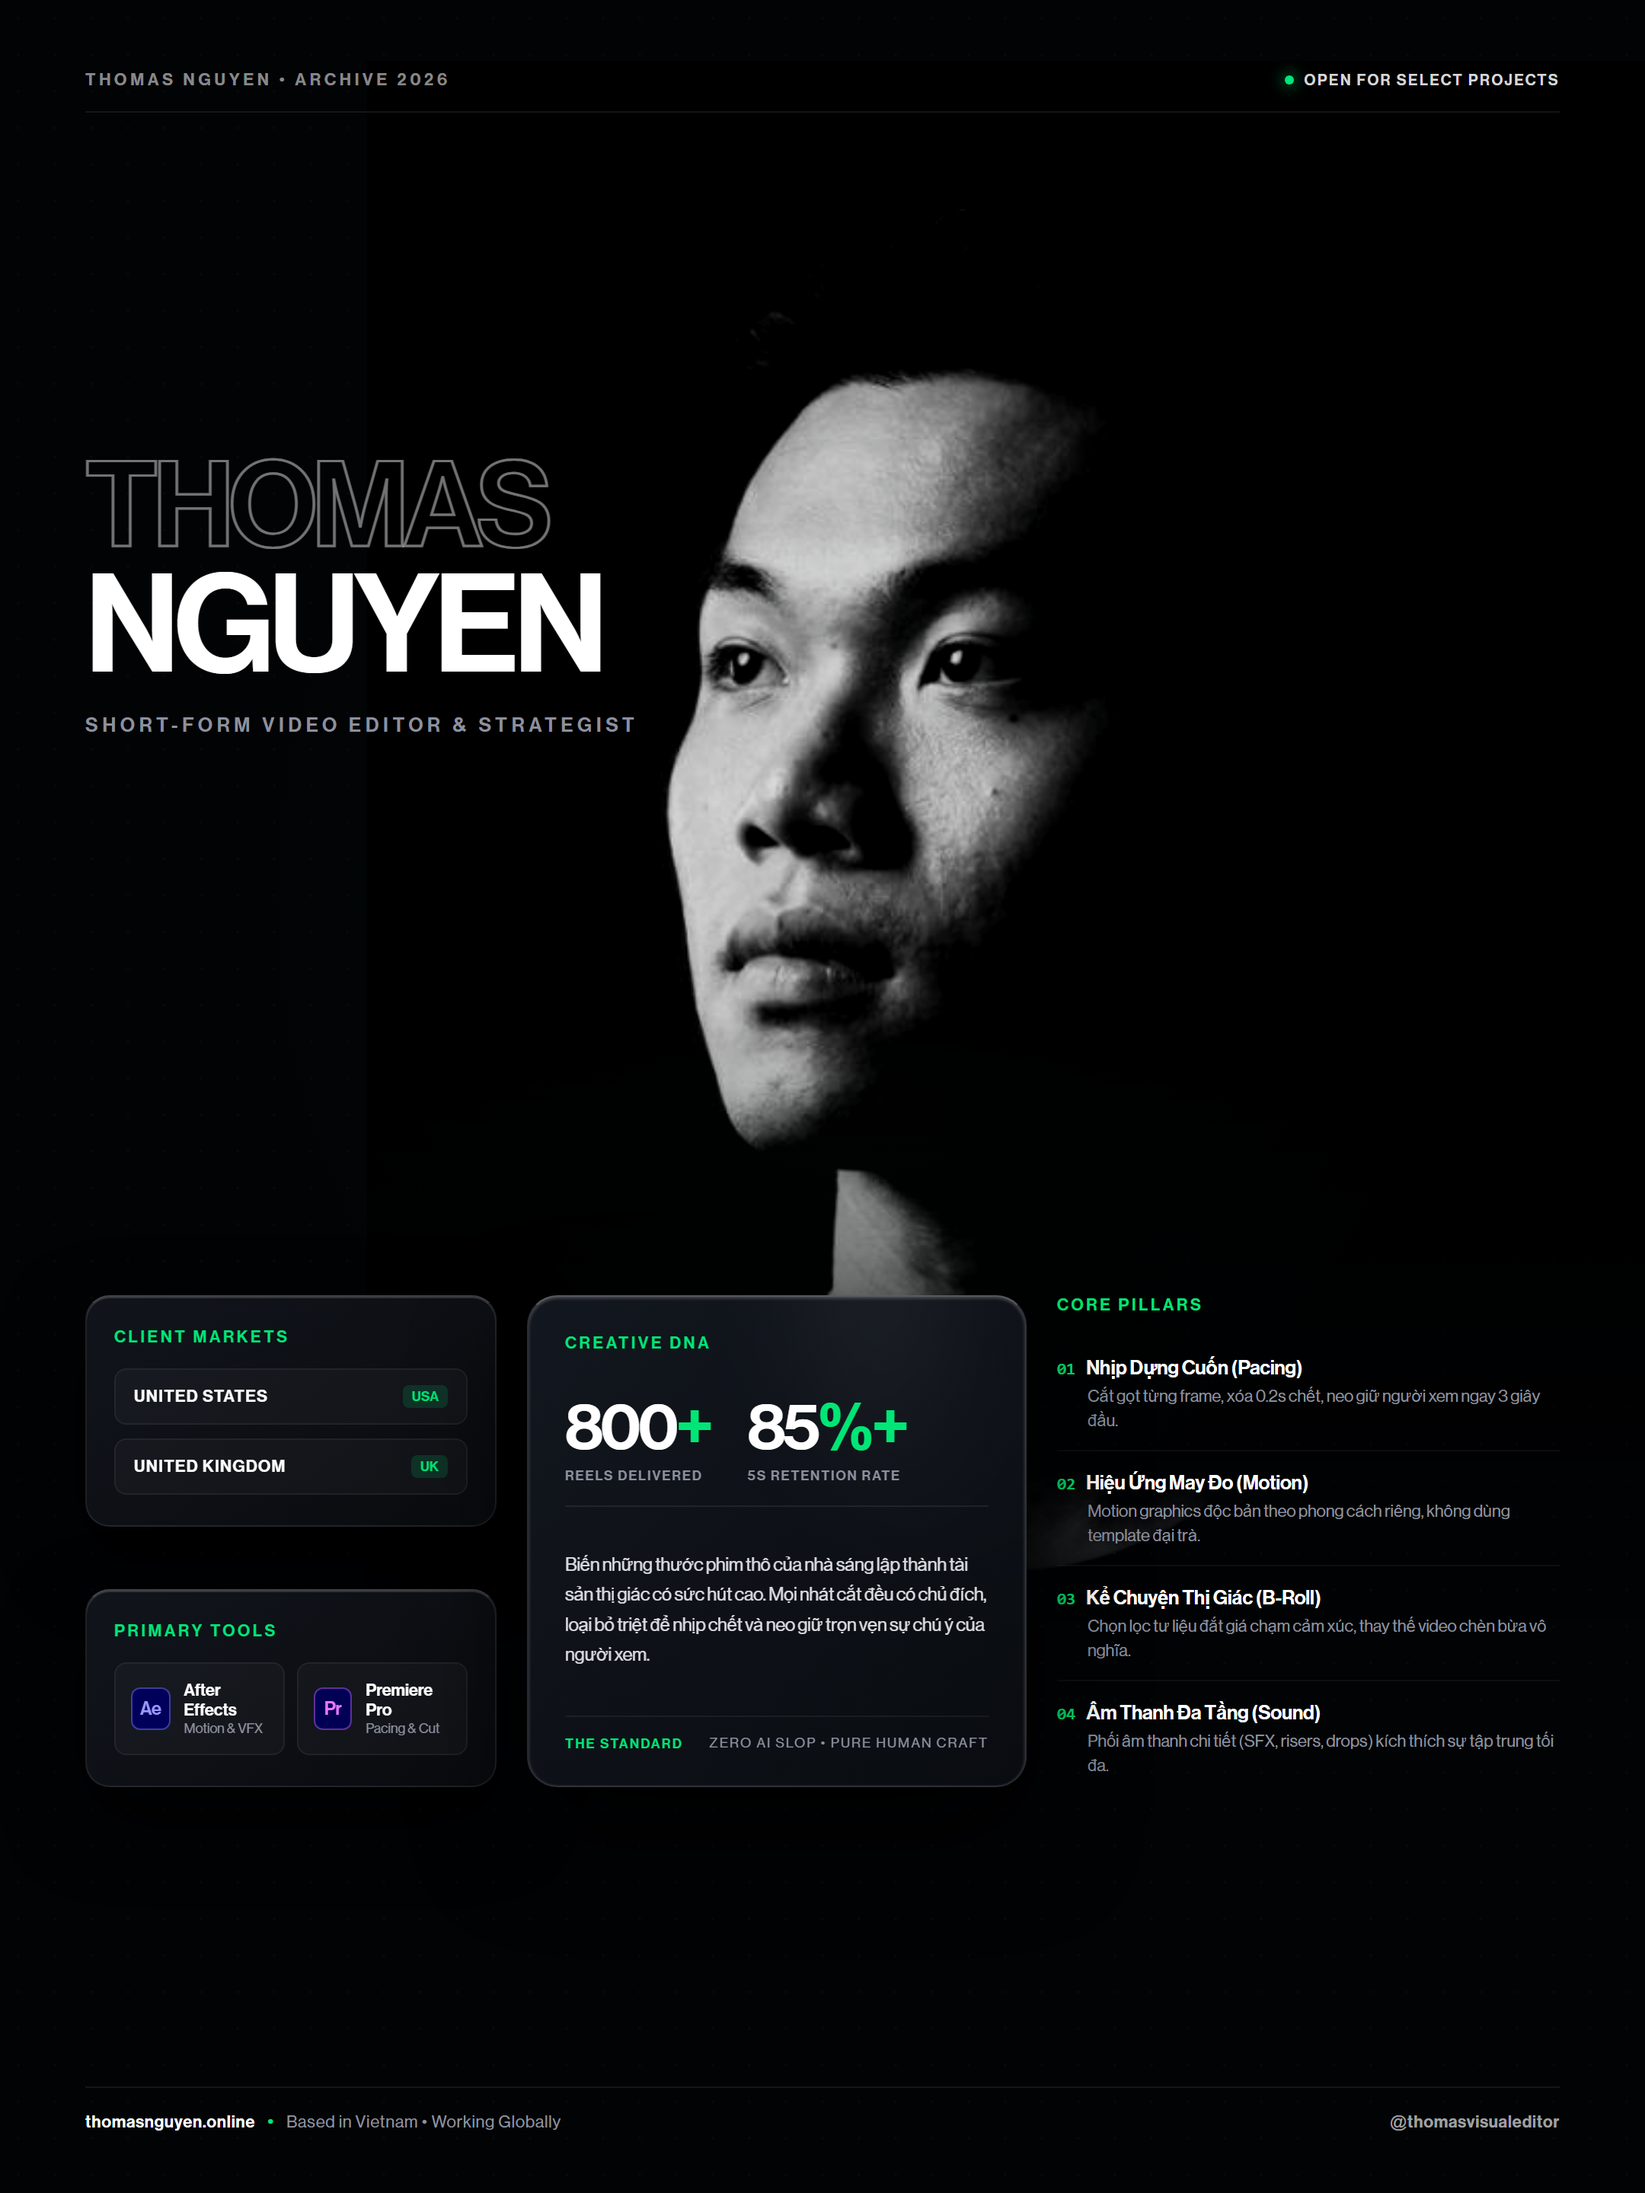
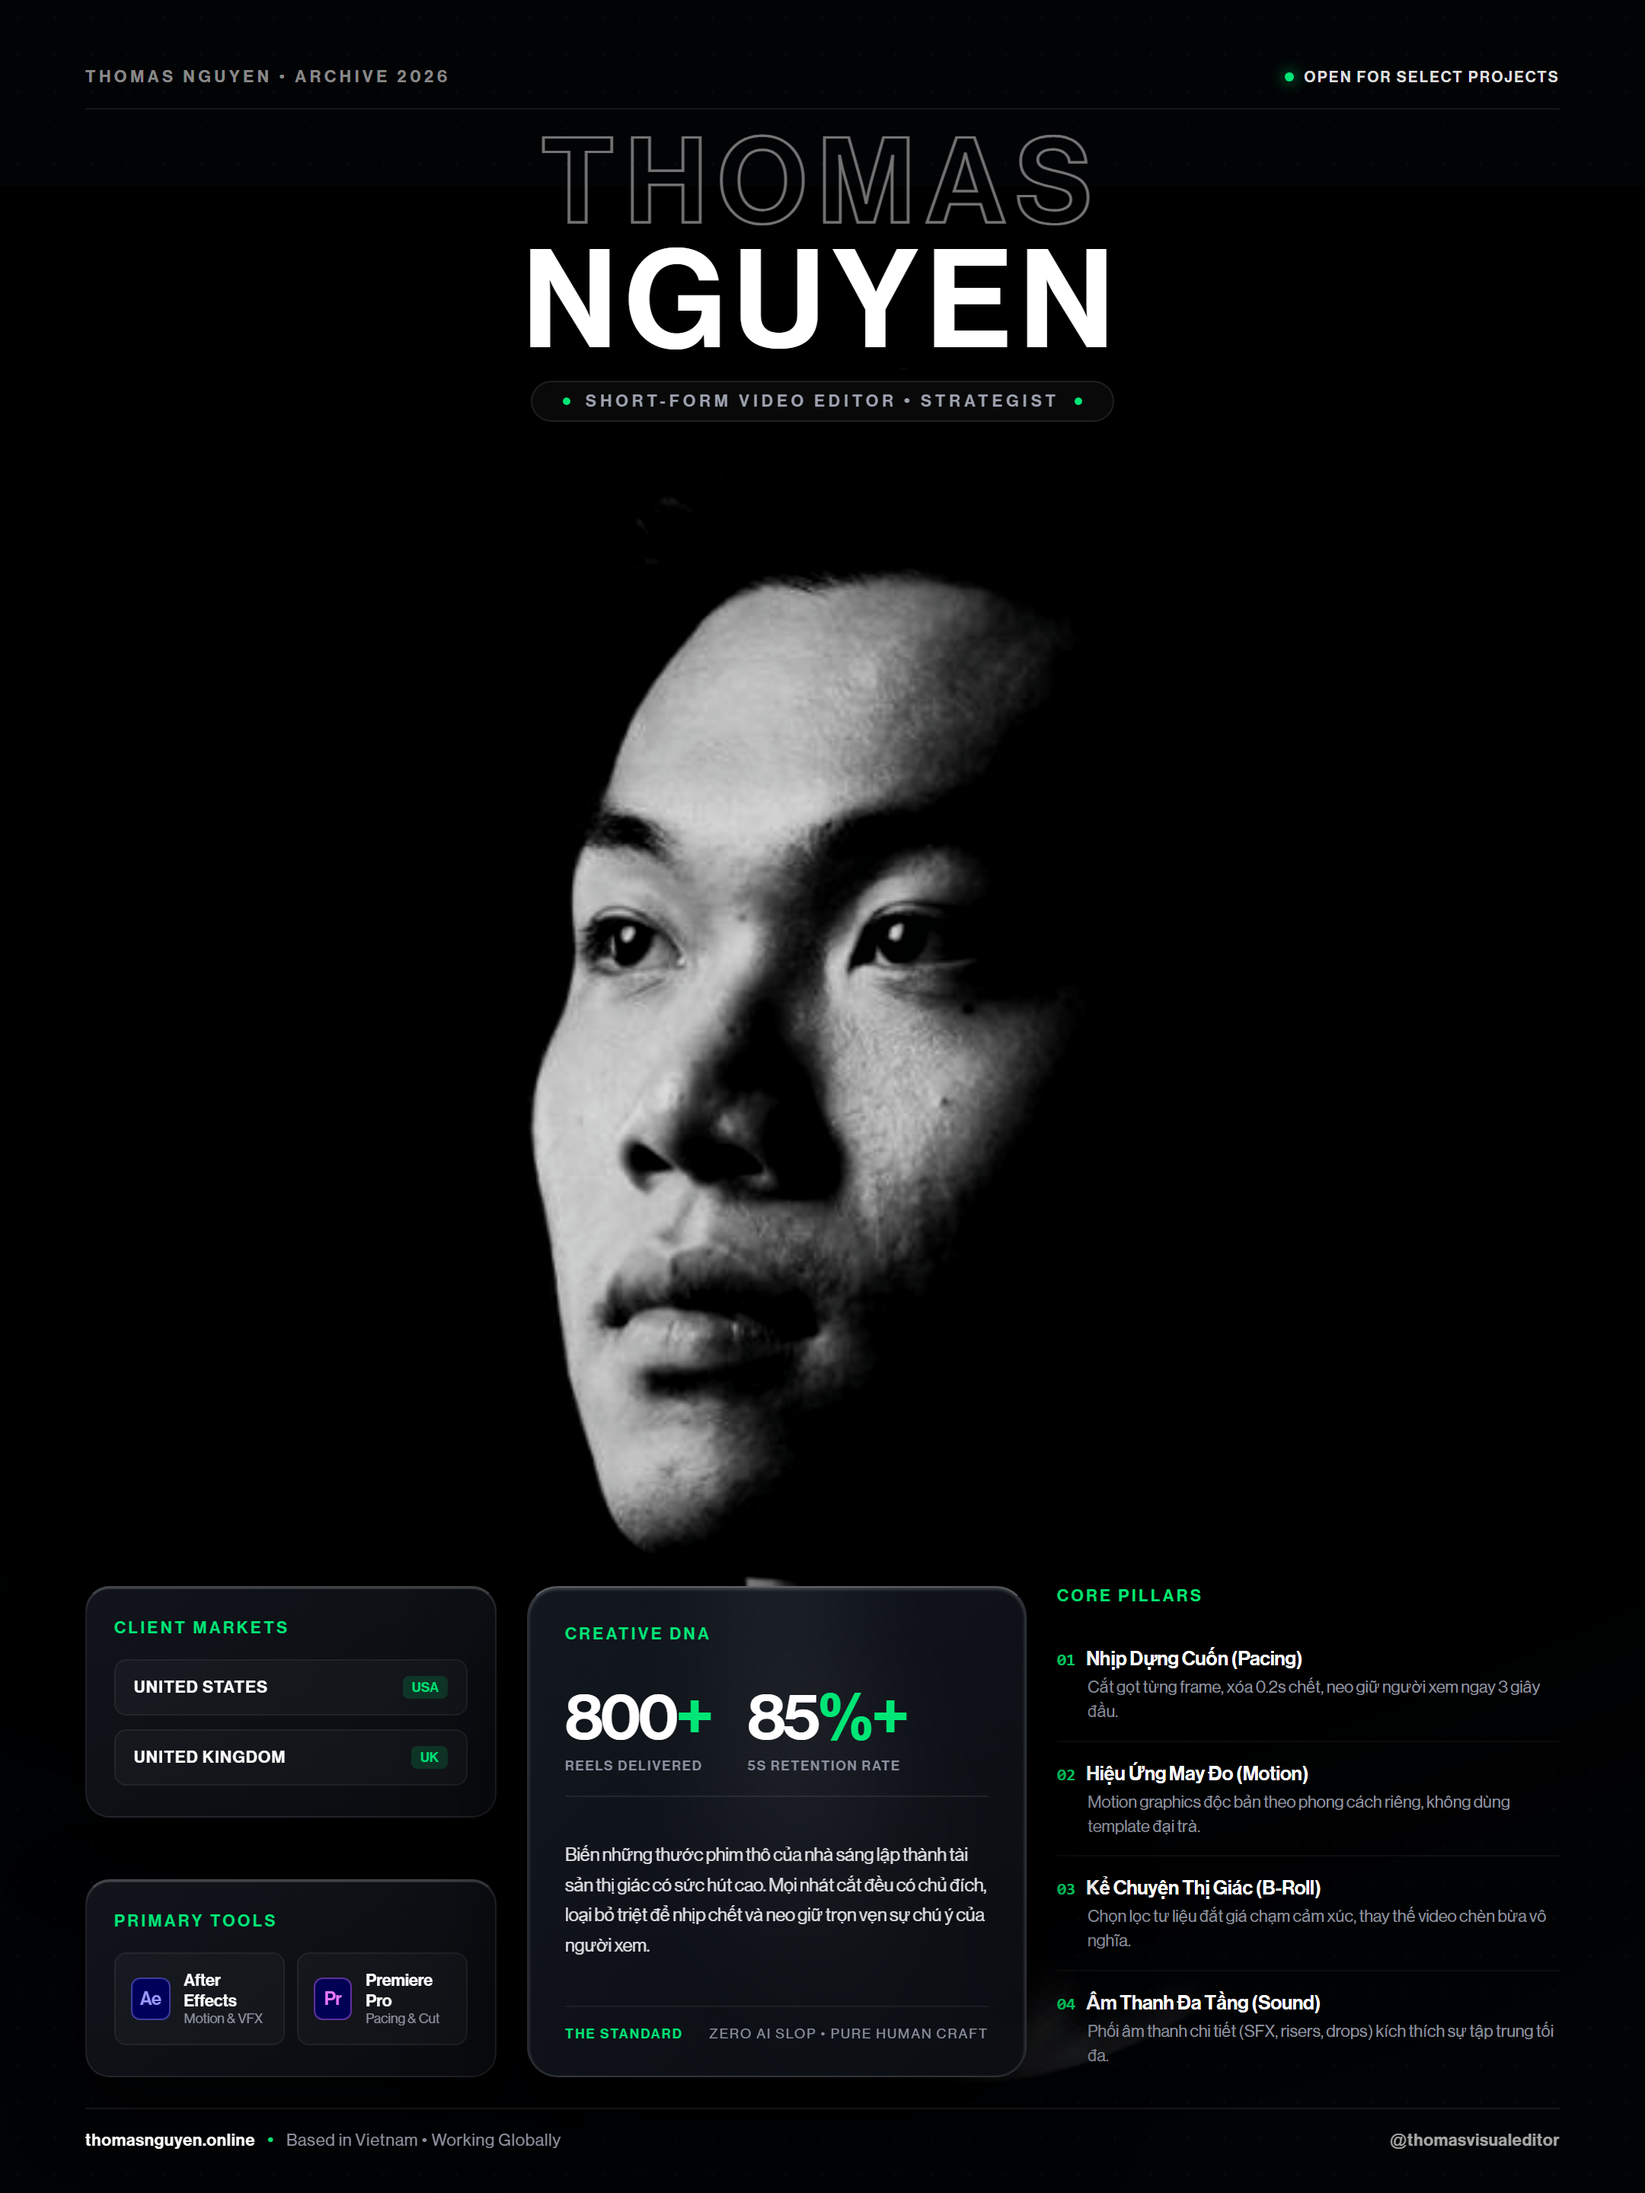
feat: polish centered poster layout with commanding face scale and cinematic framing

diff --git a/public/thomas_cv_poster.html b/public/thomas_cv_poster.html
@@ -1,4 +1,4 @@
-<!DOCTYPE html>
+<!DOCTYPE html>
 <html lang="en">
 <head>
   <meta charset="UTF-8">
@@ -63,49 +63,49 @@
       overflow: hidden;
       display: flex;
       flex-direction: column;
-      justify-content: space-between;
-      padding: 46px 56px 40px 56px;
+      justify-content: flex-start;
+      padding: 44px 56px 36px 56px;
       color: #ededf3;
     }
 
-    /* Accent color: Electric Mint / Neon Emerald like Muhammad Abbas */
+    /* Accent color: Electric Mint / Neon Emerald */
     :root {
       --accent: #00e676;
-      --accent-glow: rgba(0, 230, 118, 0.15);
+      --accent-glow: rgba(0, 230, 118, 0.16);
     }
 
     /* Subtle Film Grain Noise */
     .noise-layer {
       position: absolute;
       inset: 0;
-      background-image: radial-gradient(rgba(255, 255, 255, 0.03) 1px, transparent 0);
+      background-image: radial-gradient(rgba(255, 255, 255, 0.035) 1px, transparent 0);
       background-size: 24px 24px;
       pointer-events-none;
       z-index: 1;
-      opacity: 0.6;
+      opacity: 0.65;
     }
 
-    /* Soft Studio Spotlight Behind Subject */
+    /* Atmospheric Studio Spotlight Behind Subject */
     .studio-spotlight {
       position: absolute;
-      top: 140px;
-      left: 52%;
+      top: 210px;
+      left: 50%;
       transform: translateX(-50%);
-      width: 800px;
-      height: 900px;
-      background: radial-gradient(ellipse at center, rgba(255, 255, 255, 0.06) 0%, rgba(0, 230, 118, 0.025) 35%, transparent 70%);
+      width: 960px;
+      height: 960px;
+      background: radial-gradient(circle at 53% 42%, rgba(255, 255, 255, 0.1) 0%, rgba(0, 230, 118, 0.04) 38%, transparent 72%);
       pointer-events-none;
       z-index: 2;
     }
 
-    /* HERO PORTRAIT: Shifted slightly right to give title 100% clean negative space */
+    /* HERO PORTRAIT: Centered & Large Movie-Poster Composition */
     .hero-portrait-container {
       position: absolute;
-      top: 40px;
+      top: 190px;
       left: 50%;
-      transform: translateX(-34%);
-      width: 880px;
-      height: 1080px;
+      transform: translateX(-50%);
+      width: 1080px;
+      height: 1040px;
       z-index: 3;
       pointer-events-none;
     }
@@ -114,11 +114,14 @@
       width: 100%;
       height: 100%;
       object-fit: cover;
-      object-position: center 18%;
-      filter: grayscale(100%) contrast(135%) brightness(96%);
-      mask-image: linear-gradient(to bottom, black 0%, black 58%, rgba(0,0,0,0.6) 78%, transparent 95%),
-                  radial-gradient(ellipse at 50% 40%, black 45%, rgba(0,0,0,0.7) 70%, transparent 85%);
-      -webkit-mask-image: linear-gradient(to bottom, black 0%, black 58%, rgba(0,0,0,0.6) 78%, transparent 95%);
+      object-position: 46% 8%;
+      transform: translateX(115px) scale(1.26);
+      transform-origin: 50% 25%;
+      filter: grayscale(100%) contrast(138%) brightness(96%);
+      mask-image: radial-gradient(ellipse 70% 64% at 43% 38%, black 42%, rgba(0,0,0,0.85) 60%, transparent 95%),
+                  linear-gradient(to bottom, black 0%, black 50%, rgba(0,0,0,0.5) 68%, transparent 84%);
+      -webkit-mask-image: radial-gradient(ellipse 70% 64% at 43% 38%, black 42%, rgba(0,0,0,0.85) 60%, transparent 95%),
+                          linear-gradient(to bottom, black 0%, black 50%, rgba(0,0,0,0.5) 68%, transparent 84%);
       opacity: 0.96;
     }
 
@@ -149,7 +152,7 @@
       font-weight: 600;
       letter-spacing: 0.12em;
       text-transform: uppercase;
-      color: rgba(255, 255, 255, 0.85);
+      color: rgba(255, 255, 255, 0.88);
     }
 
     .status-dot {
@@ -160,18 +163,18 @@
       box-shadow: 0 0 10px var(--accent);
     }
 
-    /* TOP SECTION: Massive Outline + Solid Name on Pitch Black */
+    /* TOP CENTER MASTHEAD TYPOGRAPHY */
     .top-editorial-name {
       position: relative;
       z-index: 10;
-      margin-top: 28px;
-      max-width: 420px;
+      text-align: center;
+      margin-top: 14px;
     }
 
     .ghost-title {
       font-size: 78px;
       font-weight: 700;
-      letter-spacing: -0.04em;
+      letter-spacing: 0.1em;
       line-height: 0.88;
       text-transform: uppercase;
       -webkit-text-stroke: 1.5px rgba(255, 255, 255, 0.45);
@@ -182,7 +185,7 @@
     .solid-title {
       font-size: 90px;
       font-weight: 700;
-      letter-spacing: -0.04em;
+      letter-spacing: 0.06em;
       line-height: 0.88;
       text-transform: uppercase;
       color: #ffffff;
@@ -190,23 +193,40 @@
       display: block;
     }
 
-    .role-stamp {
-      font-size: 13px;
+    .role-badge {
+      display: inline-flex;
+      align-items: center;
+      gap: 10px;
+      font-size: 11px;
       font-weight: 600;
-      letter-spacing: 0.22em;
+      letter-spacing: 0.24em;
       text-transform: uppercase;
-      color: #8c909e;
-      margin-top: 18px;
+      color: #9da2b0;
+      margin-top: 12px;
+      padding: 6px 20px;
+      background: rgba(255, 255, 255, 0.035);
+      border: 1px solid rgba(255, 255, 255, 0.09);
+      border-radius: 9999px;
+      backdrop-filter: blur(16px);
     }
 
-    /* MAIN MIDDLE & LOWER COMPOSITION */
+    .role-dot {
+      width: 5px;
+      height: 5px;
+      border-radius: 50%;
+      background-color: var(--accent);
+    }
+
+    /* MAIN EDITORIAL 3-COLUMN FOUNDATION DOCKED AT BOTTOM */
     .editorial-layout {
-      position: relative;
+      position: absolute;
+      bottom: 76px;
+      left: 56px;
+      right: 56px;
       z-index: 10;
       display: grid;
       grid-template-columns: 270px 1.15fr 330px;
       gap: 20px;
-      margin-top: 170px; /* Ample breathing room for portrait */
       align-items: stretch;
     }
 
@@ -222,11 +242,11 @@
     .tactile-card {
       background: linear-gradient(145deg, rgba(20, 24, 32, 0.85) 0%, rgba(10, 12, 16, 0.9) 100%);
       border: 1px solid rgba(255, 255, 255, 0.08);
-      border-top: 1px solid rgba(255, 255, 255, 0.22);
+      border-top: 1px solid rgba(255, 255, 255, 0.24);
       border-radius: 16px;
       padding: 20px 18px;
       backdrop-filter: blur(28px);
-      box-shadow: 0 20px 50px rgba(0, 0, 0, 0.85), inset 0 1px 0 rgba(255, 255, 255, 0.15);
+      box-shadow: 0 20px 50px rgba(0, 0, 0, 0.85), inset 0 1px 0 rgba(255, 255, 255, 0.16);
     }
 
     .section-label {
@@ -330,9 +350,9 @@
 
     /* CENTER FLOATING SLAB: CREATIVE DNA (Over chest) */
     .center-glass-slab {
-      background: linear-gradient(135deg, rgba(22, 27, 36, 0.84) 0%, rgba(10, 13, 18, 0.9) 100%);
+      background: linear-gradient(135deg, rgba(22, 27, 36, 0.86) 0%, rgba(10, 13, 18, 0.92) 100%);
       border: 1px solid rgba(255, 255, 255, 0.12);
-      border-top: 1px solid rgba(255, 255, 255, 0.3);
+      border-top: 1px solid rgba(255, 255, 255, 0.32);
       border-radius: 20px;
       padding: 24px 24px 22px 24px;
       backdrop-filter: blur(36px);
@@ -457,13 +477,16 @@
 
     /* FOOTER BAR */
     .footer-bar {
-      position: relative;
+      position: absolute;
+      bottom: 28px;
+      left: 56px;
+      right: 56px;
       z-index: 10;
       display: flex;
       justify-content: space-between;
       align-items: center;
       border-top: 1px solid rgba(255, 255, 255, 0.08);
-      padding-top: 16px;
+      padding-top: 14px;
       font-size: 11px;
       color: #8c909e;
       letter-spacing: 0.04em;
@@ -496,7 +519,7 @@
     <!-- Atmospheric Studio Spotlight -->
     <div class="studio-spotlight"></div>
 
-    <!-- HERO PORTRAIT: 70% HEIGHT PRESENCE -->
+    <!-- HERO PORTRAIT: Centered & Large Movie-Poster Composition -->
     <div class="hero-portrait-container">
       <img src="thomas_portrait.jpg" alt="Thomas Nguyen" class="hero-portrait-img">
     </div>
@@ -510,14 +533,18 @@
       </div>
     </div>
 
-    <!-- TOP EDITORIAL IDENTITY: OUTLINE + SOLID CONTRAST -->
+    <!-- TOP EDITORIAL IDENTITY: CENTERED POSTER MASTHEAD -->
     <div class="top-editorial-name">
       <span class="ghost-title">THOMAS</span>
       <span class="solid-title">NGUYEN</span>
-      <div class="role-stamp">SHORT-FORM VIDEO EDITOR &amp; STRATEGIST</div>
+      <div class="role-badge">
+        <span class="role-dot"></span>
+        <span class="role-text">SHORT-FORM VIDEO EDITOR &bull; STRATEGIST</span>
+        <span class="role-dot"></span>
+      </div>
     </div>
 
-    <!-- MAIN EDITORIAL ASYMMETRIC LAYOUT -->
+    <!-- MAIN EDITORIAL 3-COLUMN COMPOSITION (Over Lower Chest) -->
     <div class="editorial-layout">
 
       <!-- LEFT WING: TACTILE FROST CARDS -->
